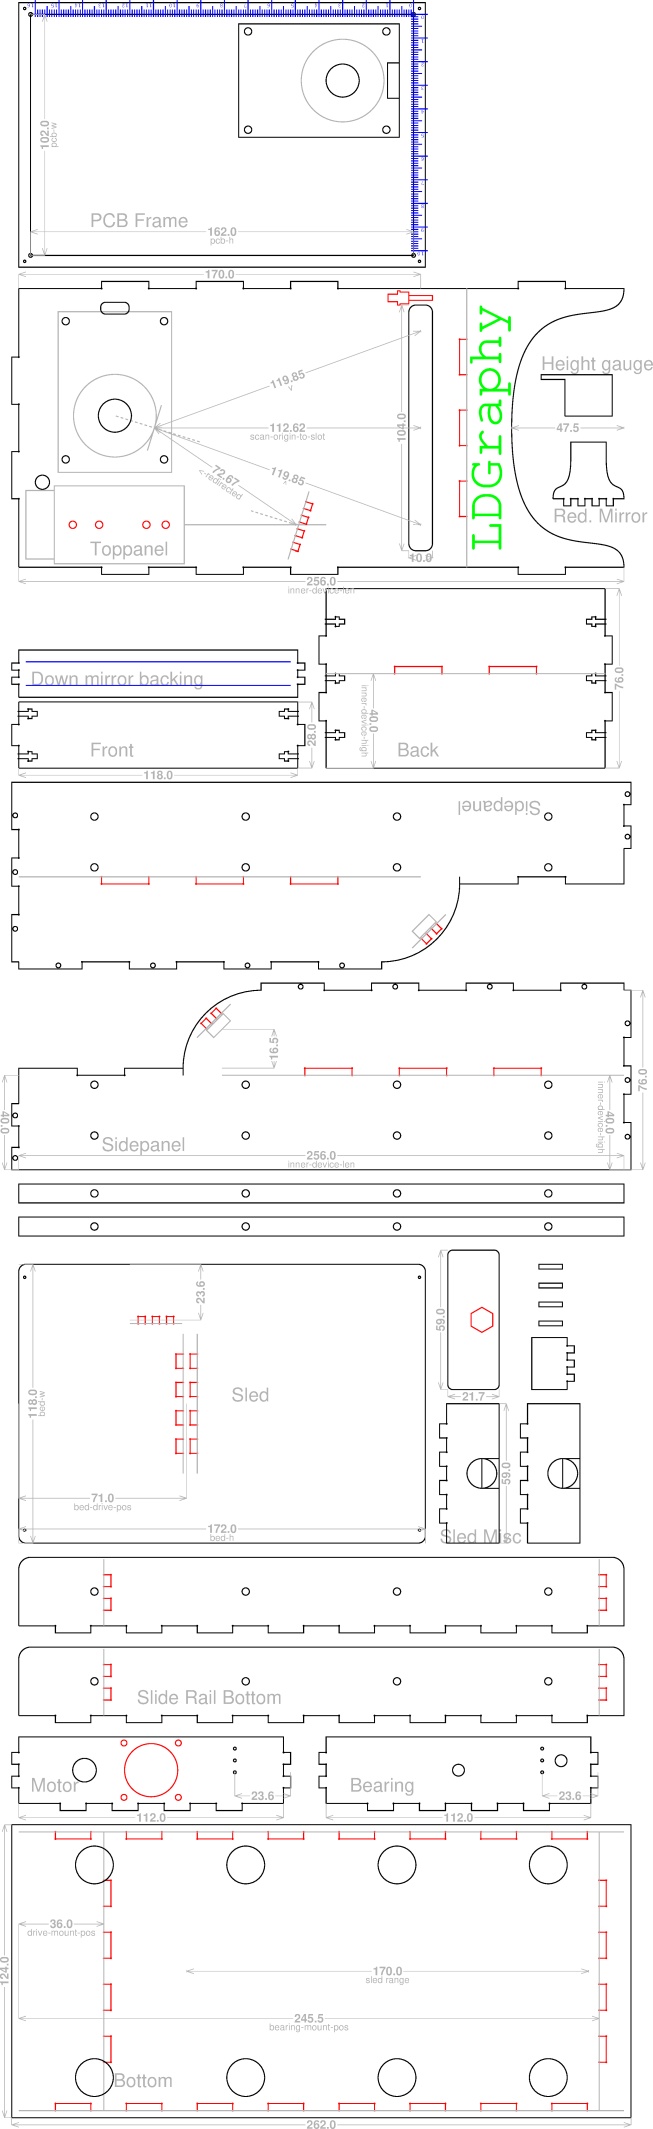
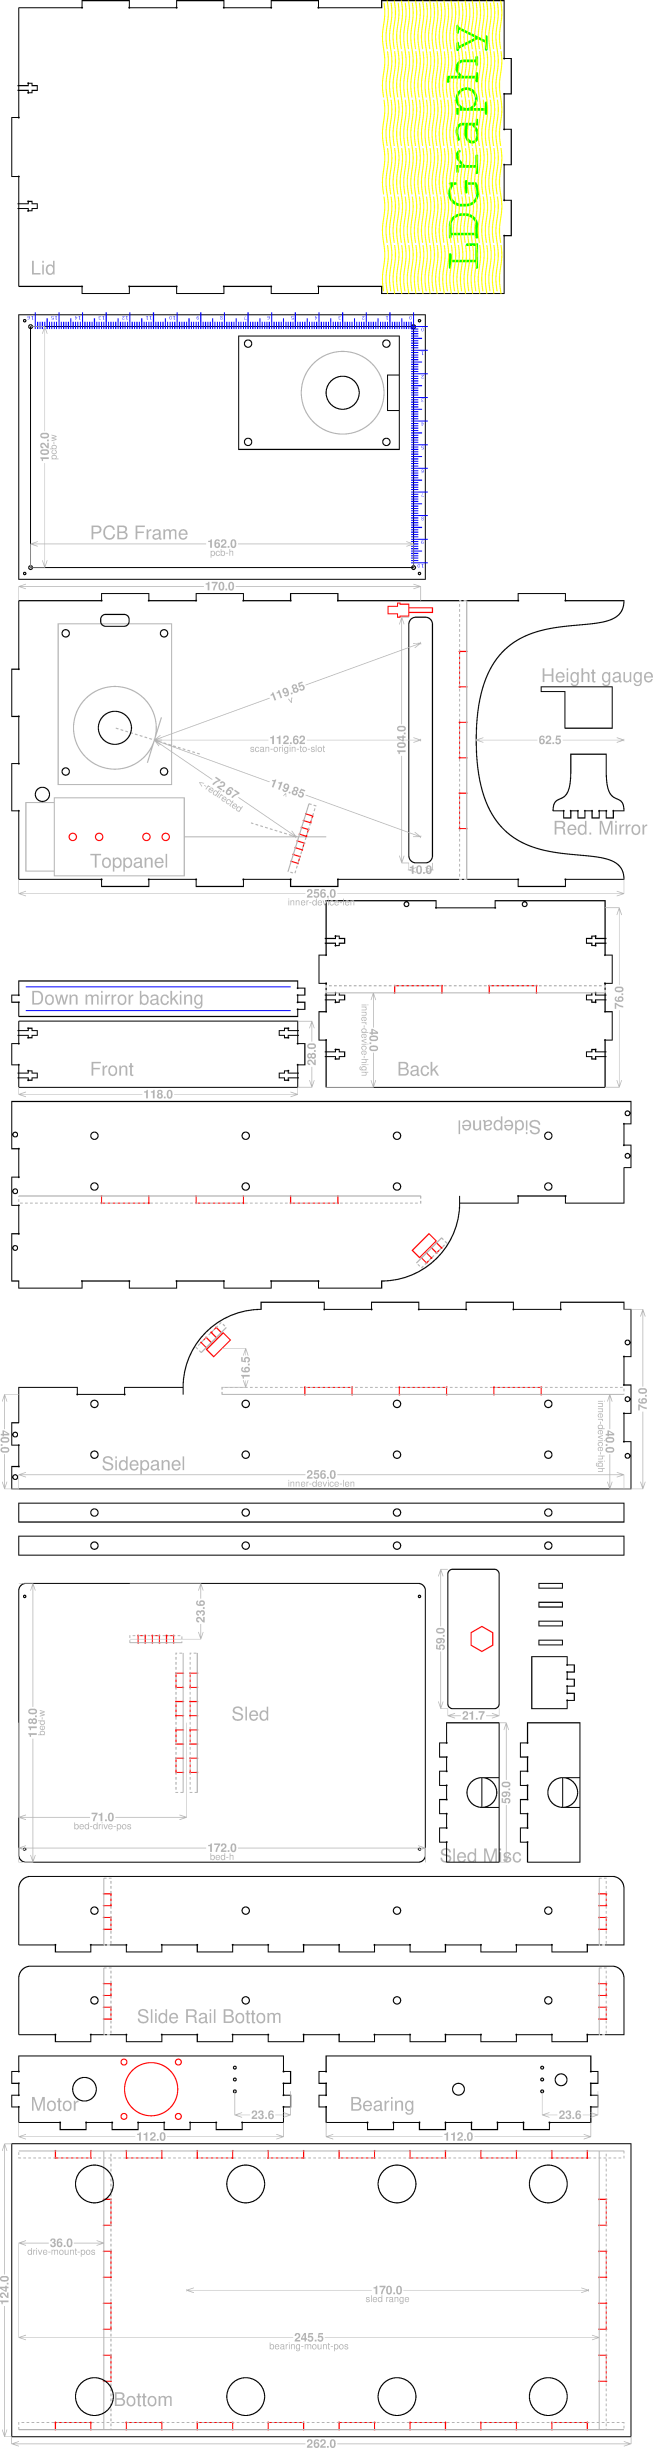
o Add experimental lid with living hinge bend (not tested yet).

Changed region(s): [[0.0, 0.0, 1.0, 1.0], [0.4288, 0.93, 0.5207, 0.961], [0.0, 0.155, 0.0306, 0.186]]

diff --git a/hardware/README.md b/hardware/README.md
@@ -3,11 +3,15 @@ Casing
 
 The [laser-cut-case.ps](./laser-cut-case.ps) PostScript file is a somewhat
 parametrized source for making an acrylic case for LDGraphy.
-Use black or dark-red acrylic to prevent the 405nm laser to escape in
-eye-damaging levels.
-You might see some pictures here that are transparent or open case for
+
+Use black or dark-red acrylic for all parts except the sled to prevent the
+405nm laser to escape in eye-damaging levels. The sled should be cut from
+fluorescing material.
+
+(You might see some pictures here that are transparent or open case for
 illustrative purposes, and which are good engineering samples while developing (
-and **require to wear Laser safety goggles**).
+and **require to wear Laser safety goggles**)).
+
 **Do not** use glass-clear transparent acrylic for the real machine, a 500mW
 laser can blind you!
 
@@ -24,6 +28,7 @@ There are several colored output layers that have different meaning for your
 set-up in the laser cutter:
   * the 'black layer'. Cut with outward kerf correction (laser cuts outside).
   * the 'red layer'. Cut with inside kerf correction (laser cuts inside).
+  * the 'yellow layer': Set to straight cut, no kerf correction.
   * the 'green layer'. Set to scan engraving.
   * the 'blue layer'. Set to vector engraving.
   * the 'gray layer' (if `/print-measures` true). Don't cut. Just FYI with measurements and help-lines.
